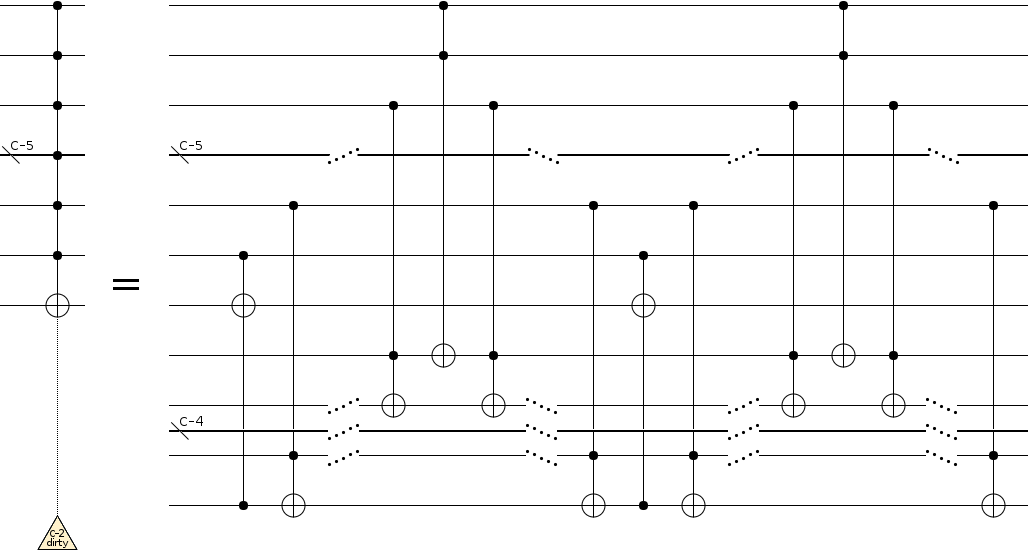
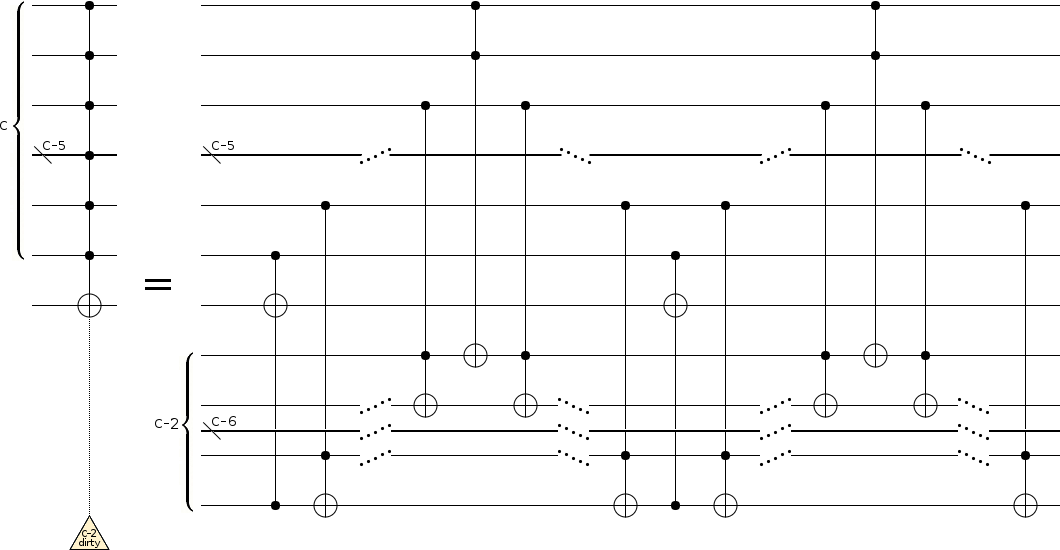
Addressing comments from maffoo - Added vertical wire-span indicators to diagrams - Clarified several other parts of diagrams - Moved pivot-flip section earlier - Significantly expanded explanations of conventions in the intro - Various other

diff --git a/doc/paper.tex b/doc/paper.tex
@@ -32,30 +32,52 @@ In section \ref{sec:construct} we describe the circuit constructions we use to r
 Then, in section \ref{sec:costs}, we discuss the novelty and comparative costs of the presented circuit constructions.
 Finally, section \ref{sec:conclusion} concludes with a discussion of possible future improvements.
 
-All constructions in this paper use a 2s-complement representation of integers, and all diagrams order qubits from least significant bit (LSB) at the top to most significant bit (MSB) at the bottom.
-Nearly all presented circuit constructions are classical, and the required dirty qubit counts we note and show in diagrams are in terms of those classical constructions.
-(The quantum trick shown in figure \ref{fig:bootstrap-ancilla} can cut dirty ancilla(e) from several of our constructions, but only in places that don't affect the overall total for period-finding.)
+All constructions in this paper use a two's-complement representation of integers, and all diagrams order qubits from least significant bit (LSB) at the top to most significant bit (MSB) at the bottom.
 
-For clarity, circuit diagrams will divide operations into separate input and output parts, with inputs shaded gray, when applicable.
-For completeness, even when the period finding reduction doesn't produce a controlled version of an operation, we nevertheless provide controllable constructions that scale linearly with the number of controls.
-For brevity, we take for granted that each circuit's inverse operation is decomposed into the same operations as the original operation but run in reverse order and with each sub-operation inverted (a decrement is a reversed increment, a multiply-add is a reversed multiply-subtract, a modular division is a reversed modular multiplication, and so forth).
+All our circuit diagrams annotate operations with the number of clean and/or dirty ancillae they need.
+For example, a dashed line from an operation down to a triangle inscribed with "3 dirty" means that the operation needs 3 dirty ancilla.
+If there are 3 unused wires that the operation can borrow, then the triangle will be green and a note of "(satisfied)" will be written underneath.
+If there are not enough unused wires shown in the diagram, the triangle will be yellow.
 
-We do not attempt to give reasonable behavior to modular arithmetic circuits applied to out of range values (ones equal to or larger than the modulus).
+The ancillae counts shown in diagrams and discussed in the text are not optimal; they are entirely based on what the constructions we discuss in this paper achieve.
+Nearly all the circuit constructions we present are classical reversible circuits (i.e. they do not use any quantum operations), so tricks such as the bootstrapping shown in figure \ref{fig:bootstrap-ancilla} could cut the ancilla count of several of the constructions.
+However, none of these improvements decrease the ancillae required at a crucial bottleneck, and so they do not reduce the number of qubits required by our construction of Shor's algorithm.
+
+To avoid ambiguity, circuit diagrams will divide multi-register operations into separate parts.
+For example, for an addition operation that adds a register $x$ into a register $y$ (i.e. performs $|x\rangle |y\rangle \rightarrow |x\rangle |y + x \pmod{2^n} \rangle$), we will place a light-gray box with the text ``Input A" over the wires corresponding to $x$ and a white box with the text ``+A" over the wires corresponding to $y$.
+The ``A" symbol refers to the value of the input register, in the computational basis, at the time of the operation.
+Diagrams will often use a sequence of operations each with their own ``Input A" specific to that operation.
+This re-use of ``A" does not indicate any relation between those inputs.
+The use of ``A" is merely a convention for indicating how the input-indicating box and the effect-indicating box are supposed to combine to form a single operation.
+
+In the case of operations parametrized by compile-time constants, diagrams will use the letters "K" and/or "R".
+For example, a box showing "+K (mod R)" refers to the modular-offset operation $|x\rangle \rightarrow |x+K \pmod{R}\rangle$.
+We always use $R$ t to refer to the modulus that is factored by Shor's algorithm.
+In several constructions we assume that $R$ is odd.
+Removing factors of 2 from a factoring problem is trivial, so this assumption does not decrease the generality of the construction.
+
+Because adding a constant into a register is more expensive than adding one register into another, we avoid ambiguity between the two by always referring to an operation that adds a constant as an "offset operation".
+We will refer to the operation that adds one register into another as just ``addition" or, when needed for clarity, ``enregistered addition".
+
+For completeness, even when the period finding reduction doesn't require a controlled version of an operation, we nevertheless provide a controllable construction that scale linearly with the number of controls.
+For brevity, we take for granted that each circuit's inverse operation is decomposed into the same operations as the original operation but run in reverse order and with each sub-operation inverted (a decrement is a reversed increment, a multiply-add is a reversed multiply-subtract, a modular division is a reversed modular multiplication, a modular halving is a reversed modular double, and so forth).
+
+We do not attempt to define or implement reasonable behavior for modular arithmetic circuits applied to out of range values (ones equal to or larger than the modulus).
 This {\em includes input values}.
 For example, if our modular addition construction ($x \mathrel{{+}{=}} y \pmod{R}$) is applied to a $y \geq R$, then we don't guarantee that $y \mod R$ will be added into $x$ or that the operation will commute with other additions or that anything sensible at all will happen.
 If the precondition $y < R$ is violated, what occurs is undefined behavior \cite{c11}.
 
 
-\section{Period Finding into Toffolis} \label{sec:construct}
+\section{Constructions} \label{sec:construct}
 
-Our reduction from period finding to constant-sized gates uses many circuit constructions.
+Our reduction, from the period finding step of Shor's algorithm down to constant-sized gates, uses many circuit constructions.
 Figure \ref{fig:dependencies} shows an overview of the various operations we will use, and the path through them that we will take.
 
 \begin{figure}
   \centering
   \includegraphics[height=17.3cm]{assets/dependencies.png}
   \caption{
-    Meta-figure showing the tagged transitive reduction of dependencies between constructions in our paper.
+    Graph of the transitive reduction of dependencies between constructions in our paper.
     Edge labels indicate which constructions use a dependency more than a constant number of times.
   }
   \label{fig:dependencies}
@@ -69,20 +91,25 @@ Figure \ref{fig:dependencies} shows an overview of the various operations we wil
     \includegraphics[width=\linewidth]{assets/shor-period-finding.png}
   }
   \caption{\em
-	High-level period finding circuit \cite{Shor1999}.
-	$R$ is the modulus being queried, $B$ is a randomly chosen base, $n$ is the number of bits needed to store $R$, and $p \in \Theta(n)$ controls the precision of the phase estimation step.
+	High-level definition of the period finding circuit \cite{Shor1999} used by Shor's algorithm.
+	$R$ is the modulus and the number to be factored, $B$ is a randomly chosen base, $n$ is the number of bits needed to store $R$, and $p \in \Theta(n)$ controls the precision of the phase estimation step.
     The triangles indicate how many ancillae are needed ``behind the scenes", by our constructions, to perform an operation.
 	Recovering the period requires classical post-processing of the sampled output.
   }
   \label{fig:period-finding}
 \end{figure}
 
-A high-level view of the circuit for period finding on modular exponentiation, the core quantum subroutine of Shor's quantum factoring algorithm \cite{Shor1999}, is shown in figure \ref{fig:period-finding}.
-The circuit starts by preparing a uniform superposition $|\psi_0\rangle = \sqrt{2^{-n}} \sum_{k=0}^{2^n-1} |k\rangle$, then uses the $\times B^A {\pmod R}$ operation to separate that superposition into equivalence classes modulo the unknown period $l$ of said operation.
-That is to say, w.l.o.g. the state ends up equal to $|\psi_{1,x}\rangle = \sqrt{l 2^{-n}} \sum_{k=0}^{(2^n/l)-1} |l k + x \rangle$ for some $x$.
+A high-level view of the circuit for period finding applied to modular exponentiation, the core quantum subroutine of Shor's quantum factoring algorithm \cite{Shor1999}, is shown in figure \ref{fig:period-finding}.
+
+Before the quantum circuit is constructed, a base $B$ is chosen at random.
+The randomly chosen $B$ must be co-prime to $R$.
+When a $B$ is accidentally chosen that is not co-prime to $R$, the lucky victim can instead factor $R$ by recursively factoring $R_1 = \gcd(B, R)$ and $R_2 = R / \gcd(B, R)$.
+
+The circuit begins by preparing a uniform superposition $|\psi_0\rangle = \sqrt{2^{-n}} \sum_{k=0}^{2^n-1} |k\rangle$, then uses the $\times B^A {\pmod R}$ operation to separate that superposition into equivalence classes modulo the unknown period $l$ of this operation.
+That is to say, w.l.o.g. the state ends up equal to $|\psi_{1,x}\rangle = \sqrt{l 2^{-n}} \sum_{k=0}^{\approx (2^n/l)-1} |l k + x \rangle$ for some $x$.
 The circuit then applies an inverse Fourier transform to the state.
 Fourier transforming a uniform signal with period $l$ produces a spectrum with peaks near $N \cdot 0/l$, $N \cdot 1/l$, $N \cdot 2/l$, ..., $N \cdot (p-1)/l$.
-Shor's algorithm recovers the period $l$ by sampling values $s_i$ from said spectrum, then using a continued fractions algorithm to compute the denominator of the fraction (with denominator below $R$) that is closest to $s_i/N$.
+Shor's algorithm recovers the period $l$ by sampling values $s_i$ from this spectrum, then using a continued fractions algorithm to compute the denominator of the fraction (with denominator below $R$) that is closest to $s_i/N$.
 
 Because period-finding measures all qubits immediately after performing a QFT, most of the transformed qubits can be measured earlier than shown.
 In fact, each qubit can be measured so early that the next qubit needed for the QFT does not even need to be initialized yet!
@@ -93,7 +120,7 @@ The only non-trivial operation is (a), the controlled modular multiplication of 
 
 We perform modular multiplication with multiply-accumulates and an ancilla register as in \cite{beauregard2003}.
 However, to allow our ancilla register to be mostly dirty, we extend the operation so that it has a well defined effect on the second register: multiplying by the inverse factor.
-We will refer to this combined multiply-A-and-inverse-multiply-B operation as a ``bimultiply".
+We will refer to this combined operation as a ``bimultiply".
 
 The bimultiplications we perform throughout the algorithm do change the value of the ancilla register, but after the usual end of the circuit we can undo the damage.
 The key insight is that the work register is initialized to $|1\rangle$ and gets multiplied by constants inverse to the ones trashing the dirty ancilla register.
@@ -102,7 +129,7 @@ We measure the work register to recover the fixup factor needed to restore the d
 Figure \ref{fig:period-finding-solo-phase-qubit-explicit-dirty-register} shows this construction.
 
 Because our modular circuit constructions would have undefined behavior if any register has a value equal to or larger than $R$, we need the ancilla register to contain a value less than $R$.
-We ensure this by requiring that the ancilla register's MSB be $|0\rangle$ (i.e. clean) and that the registers be as small as possible (i.e. have size $n = \lceil \lg_2(R-1) \rceil$).
+We ensure this by requiring that the ancilla register's MSB be $|0\rangle$ (i.e. clean) and that the registers be as small as possible (i.e. have size $n = \lceil \lg_2(R-1) \rceil$, because only values up to $R-1$ need to be stored).
 
 \begin{figure*}
   \centering
@@ -137,11 +164,11 @@ As in \cite{beauregard2003}, we perform controlled modular multiplication with a
 However, to allow the second register to be dirty, we use an additional scaled-accumulate as well as a negation operation.
 See figure \ref{fig:controlled-modular-multiply} for the circuit diagram.
 
-To show that the circuit works, suppose that the two registers start in the state $(a, b)$, working modulo $R$.
-By scale-adding the first register times $K$ into the second register, the system advances to $(a, b+aK)$.
-Then a scale-subtract times $K^{-1}$ out of the first register puts the system into the state $(a-bK^{-1}-aKK^{-1}, b+aK)$, which is just $(-bK^{-1}, b+aK)$.
-Next, we cancel the $b$ term in the second register by scale-adding the first register times $K$ into it again, leaving $(-bK^{-1}, b+aK-bK^{-1} \cdot K)$ which is simply $(-bK^{-1}, aK)$.
-Finally, we swap the terms and negate the second term to get $(aK, bK^{-1})$ as desired.
+To show that the circuit works, suppose that the two registers start in the state $(x, y)$, working modulo $R$.
+We scale-add the first register times $K$ into the second register to produce the state $(x, y+xK)$.
+Then a scale-subtract times $K^{-1}$ out of the first register puts the system into the state $(x-yK^{-1}-xKK^{-1}, y+xK)$, which is just $(-yK^{-1}, y+xK)$.
+Next, we cancel the $y$ term in the second register by scale-adding the first register times $K$ into it again, leaving $(-yK^{-1}, y+xK-yK^{-1} \cdot K)$ which is simply $(-yK^{-1}, xK)$.
+Finally, we swap the terms and negate the second term to get $(xK, yK^{-1})$ as desired.
 
 In the case where $K$ has no multiplicative inverse modulo $R$, this construction will not work (it would define an invalid irreversible operation).
 However, that would mean $K$ is a factor of $R$; a case that the very lucky user can check for and handle classically before bothering to factor $R$ with a quantum computer.
@@ -153,6 +180,7 @@ However, that would mean $K$ is a factor of $R$; a case that the very lucky user
     Controlled modular bimultiplication, with a constant multiplier $K$, using three modular scaled-accumulates and a swap.
     $K$ must have a multiplicative inverse modulo $R$.
     Uses no ancillae, $O(c + n^2 \lg n)$ gates, and $O(c + n^2)$ depth where $c$ is the number of controls and $n$ is the register size.
+    The negation operation requires 2 dirty ancillae, but notice there are free wires in the other register that can be borrowed, so the overall construction requires no additional dirty ancilla (for non-trivial $n$).
   }
   \label{fig:controlled-modular-multiply}
 \end{figure}
@@ -168,13 +196,13 @@ See figure \ref{fig:controlled-modular-scale-accumulate}.
 
 The conditional offset and modular doubling operations need a dirty bit, but for non-trivial $n$ there are more than enough unused bits available to borrow, so the circuit as a whole doesn't require any dirty bits.
 
-Note that the modular doublings require $R$ to be odd, since otherwise the operation would be irreversible.
+Note that the modular doublings (and halvings) require $R$ to be odd, since otherwise the operation would be irreversible.
 However, given that in the intended use case $R$ is a number to be factored, it is reasonable to require callers to have factored out multiples of two beforehand.
 
 \begin{figure}
   \centering
   \includegraphics[width=\linewidth]{assets/controlled-modular-multiply-accumulate.png}
-  \caption{\em
+  \caption{\emph{•}
     Reducing a controlled modular scale-accumulate, with a constant multiplier $K$, into the modular equivalent of shift-and-add.
     Requires the modulus $R$ to be odd.
     Uses no ancillae, $O(c + n^2 \lg n)$ gates, and $O(c + n^2)$ depth where $c$ is the number of controls and $n$ is the register size.
@@ -185,25 +213,76 @@ However, given that in the intended use case $R$ is a number to be factored, it 
 
 \subsection{Modular Doubling}
 
-To multiply a register by 2 modulo an odd $R$, we use controlled offsets and nots to align each half of the input state space against MSB boundaries.
-Once that's done, a left-rotate completes the operation by turning the MSB into the LSB (converting the alignment into interleaving).
-See figure \ref{fig:modular-double}.
+To multiply a register by 2 modulo an odd $R$, we note that the permutation this operation performs is to take the values from $[(R+1)/2, R)$, the top half, and interleave them between the values from $[0, (R+1)/2)$, the bottom half.
+
+We can perform this interleaving by first offset-ing the top half up to $[2^{n-1}, 2^{n-1}+(R-1)/2)$, i.e. aligning it with the MSB boundary, and then performing a left-rotation of the register bits.
+This moves the MSB to the LSB, converting the alignment into interleaving.
+
+Because it's expensive to perform an offset that affects values above $R/2$ while leaving values below $R/2$ alone, the circuit shown in figure \ref{fig:modular-double} uses a different alignment strategy.
+It starts by offset-ing the whole range down by $\lceil R/2 \rceil$, which wraps the bottom half of the input around to the top of the register's range.
+This offset also aligns what was originally the top half against the bottom of the register range.
+Then it uses a controlled offset to move just the top half of the register up by $\lceil R/2 \rceil$, re-wrapping what was originally the bottom-half past the top and around to the middle, aligning with the MSB boundary.
+The two offsets aligned the top half against 0 and the bottom half against $2^{n-1}$, but we want the reverse, so the problem is fixed by toggling the MSB.
+With the desired alignment achieved, the circuit finishes with a left-rotate.
+
 
 \begin{figure}
   \centering
   \includegraphics[width=\linewidth]{assets/controlled-modular-double.png}
   \caption{\em
-    Controlled modular doubling in $O(c + n \lg n)$ gates, $O(c + n)$ depth, with 2 dirty ancillae.
+    Controlled modular doubling.
     $R$ must be odd.
-    Uses 1 dirty ancilla, $O(c + n \lg n)$ gates, and $O(c + n)$ depth where $c$ is the number of controls and $n$ is the register size.
+    Uses 1 dirty ancilla, $O(c + n \lg n)$ gates, and $O(c + n)$ depth, where $c$ is the number of controls and $n$ is the register size.
   }
   \label{fig:modular-double}
 \end{figure}
 
 
+\subsection{Pivot-Flips} \label{sec:pivot-flips}
+
+We will implement both modular negation and modular offset/addition in terms of a non-standard operation we call a ``pivot-flip".
+A pivot-flip is an operation that reverses the order of states less than a given pivot value, without affecting other states.
+For example, a pivot-flip with the pivot equal to 4 would swap $|0\rangle$ and $|3\rangle$, swap $|1\rangle$ and $|2\rangle$, and leave all other states untouched.
+
+The exact permutation performed by a pivot-flip with pivot equal to $A$ is:
+
+$$\text{PivotFlip}_A = \sum_{i=0}^{A-1} |A-i-1\rangle \langle i| + \sum_{i=A}^{N-1} |i\rangle \langle i|$$
+
+To perform a pivot-flip efficiently, we use the fact that $x \rightarrow \lnot(x - A)$ nearly does what is required: it flips the range below $A$ but unfortunately also flips the range above-and-including $A$.
+However, because $x \rightarrow \lnot(x - A)$ is its own inverse, the operation can be ``toggle-controlled'', where the operation undoes itself unless a controlling qubit is toggled between two applications.
+Also, because the operation doesn't change whether any state is above or below the pivot, the controlling qubit can be toggled by a comparison of the target itself against the pivot (even though the target is being operated on).
+
+See figures \ref{fig:controlled-pivot-flip} and \ref{fig:controlled-const-pivot-flip} for the circuit diagrams.
+For states that are less than the pivot $A$, the comparison against the pivot keeps toggling the ancilla and exactly one of the controlled subtract-and-inverts will fire.
+For other states, the ancilla does not change and so the subtract-and-inverse happens either no times or two times (undoing itself) for a net effect of no effect.
+
+Note that, depending on whether or not the pivot is a compile-time constant or another qubit register, different subtraction constructions are used when reducing further.
+This distinction matters because the constant-offset construction uses $O(n \lg n)$ gates \cite{haner2016} instead of the $\Theta(n)$ gates used by enregistered addition \cite{takahashi2005}.
+
+\begin{figure}
+  \centering
+  \includegraphics[width=\linewidth]{assets/controlled-pivot-flip.png}
+  \caption{\em
+    Controlled pivot-flip circuit with an enregistered pivot.
+    Uses $2$ dirty ancillae, $O(c + n \lg n)$ gates, and $O(c + n)$ depth where $c$ is the number of controls and $n$ is the register size.
+  }
+  \label{fig:controlled-pivot-flip}
+\end{figure}
+
+\begin{figure}
+  \centering
+  \includegraphics[width=\linewidth]{assets/controlled-const-pivot-flip.png}
+  \caption{\em
+    Controlled pivot-flip circuit with a constant pivot.
+    Uses $2$ dirty ancillae, $O(c + n \lg n)$ gates, and $O(c + n)$ depth where $c$ is the number of controls and $n$ is the register size.
+  }
+  \label{fig:controlled-const-pivot-flip}
+\end{figure}
+
+
 \subsection{Modular Addition / Offset}
 
-As shown in figure \ref{fig:mod-add-from-pivot-flip-bars}, a modular addition is three pivot-flips (see section \ref{sec:pivot-flips}).
+As shown in figure \ref{fig:mod-add-from-pivot-flip-bars}, a modular addition can be implemented by three pivot-flips.
 To add $A$ into a register modulo $R$, perform pivot-flips with the pivot at $R-A$, then $R$, then $A$.
 (The pivot-flip at $R$ can be simplified because the values above $R$ don't matter.)
 See figure \ref{fig:controlled-modular-add} for the circuit.
@@ -258,48 +337,6 @@ See figure \ref{fig:negate-mod}.
     Uses $2$ dirty ancillae, $O(c + n \lg n)$ gates, and $O(c + n)$ depth where $c$ is the number of controls and $n$ is the register size.
   }
   \label{fig:negate-mod}
-\end{figure}
-
-
-\subsection{Pivot-Flips} \label{sec:pivot-flips}
-
-We implemented both modular negation and modular offset/addition in terms of a non-standard operation we call a ``pivot-flip".
-A pivot-flip is an operation that reverses the order of states less than a given pivot value, without affecting other states.
-For example, a pivot-flip with the pivot equal to 4 would swap $|0\rangle$ and $|3\rangle$, swap $|1\rangle$ and $|2\rangle$, and leave all other states untouched.
-
-The exact permutation performed by a pivot-flip with pivot equal to $A$ is:
-
-$$\text{PivotFlip}_A = \sum_{i=0}^{A-1} |A-i-1\rangle \langle i| + \sum_{i=A}^{N-1} |i\rangle \langle i|$$
-
-To perform a pivot-flip efficiently, we use the fact that $x \rightarrow \lnot(x - A)$ nearly does what is required: it flips the range below $A$ but unfortunately also flips the range above-and-including $A$.
-However, because $x \rightarrow \lnot(x - A)$ is its own inverse, the operation can be ``toggle-controlled'', where the operation undoes itself unless a controlling qubit is toggled between two applications.
-Also, because the operation doesn't change whether any state is above or below the pivot, the controlling qubit can be toggled by a comparison of the target itself against the pivot (even though the target is being operated on).
-
-See figures \ref{fig:controlled-pivot-flip} and \ref{fig:controlled-const-pivot-flip} for the circuit diagrams.
-For states that are less than the pivot $A$, the comparison against the pivot keeps toggling the ancilla and exactly one of the controlled subtract-and-inverts will fire.
-For other states, the ancilla does not change and so the subtract-and-inverse happens either no times or two times (undoing itself) for a net effect of no effect.
-
-Note that, depending on whether or not the pivot is a compile-time constant or another qubit register, different subtraction constructions are used when reducing further.
-This distinction matters because the constant-offset construction uses $O(n \lg n)$ gates \cite{haner2016} instead of the $\Theta(n)$ gates used by enregistered addition \cite{takahashi2005}.
-
-\begin{figure}
-  \centering
-  \includegraphics[width=\linewidth]{assets/controlled-pivot-flip.png}
-  \caption{\em
-    Controlled pivot-flip circuit with an enregistered pivot.
-    Uses $2$ dirty ancillae, $O(c + n \lg n)$ gates, and $O(c + n)$ depth where $c$ is the number of controls and $n$ is the register size.
-  }
-  \label{fig:controlled-pivot-flip}
-\end{figure}
-
-\begin{figure}
-  \centering
-  \includegraphics[width=\linewidth]{assets/controlled-const-pivot-flip.png}
-  \caption{\em
-    Controlled pivot-flip circuit with a constant pivot.
-    Uses $2$ dirty ancillae, $O(c + n \lg n)$ gates, and $O(c + n)$ depth where $c$ is the number of controls and $n$ is the register size.
-  }
-  \label{fig:controlled-const-pivot-flip}
 \end{figure}
 
 
